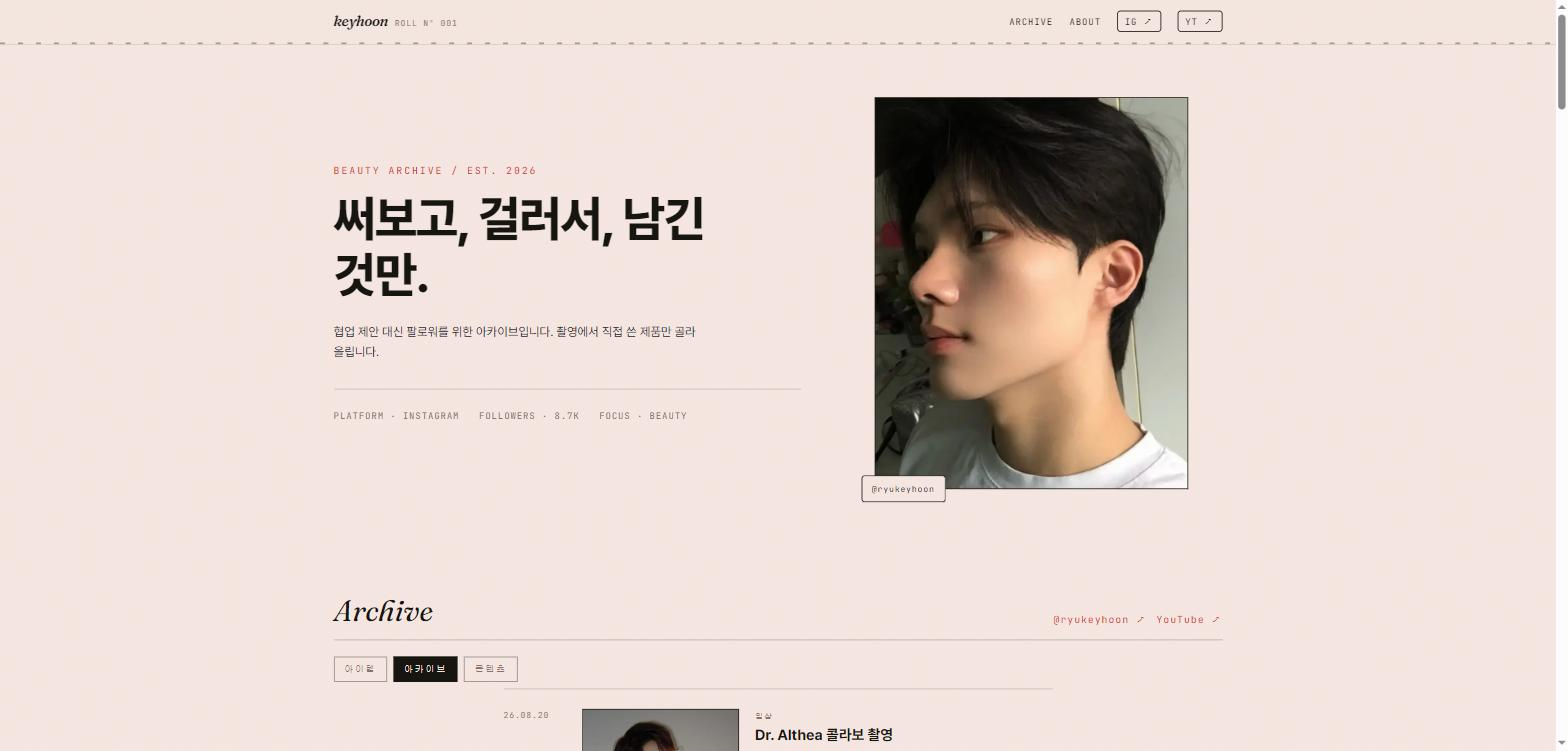
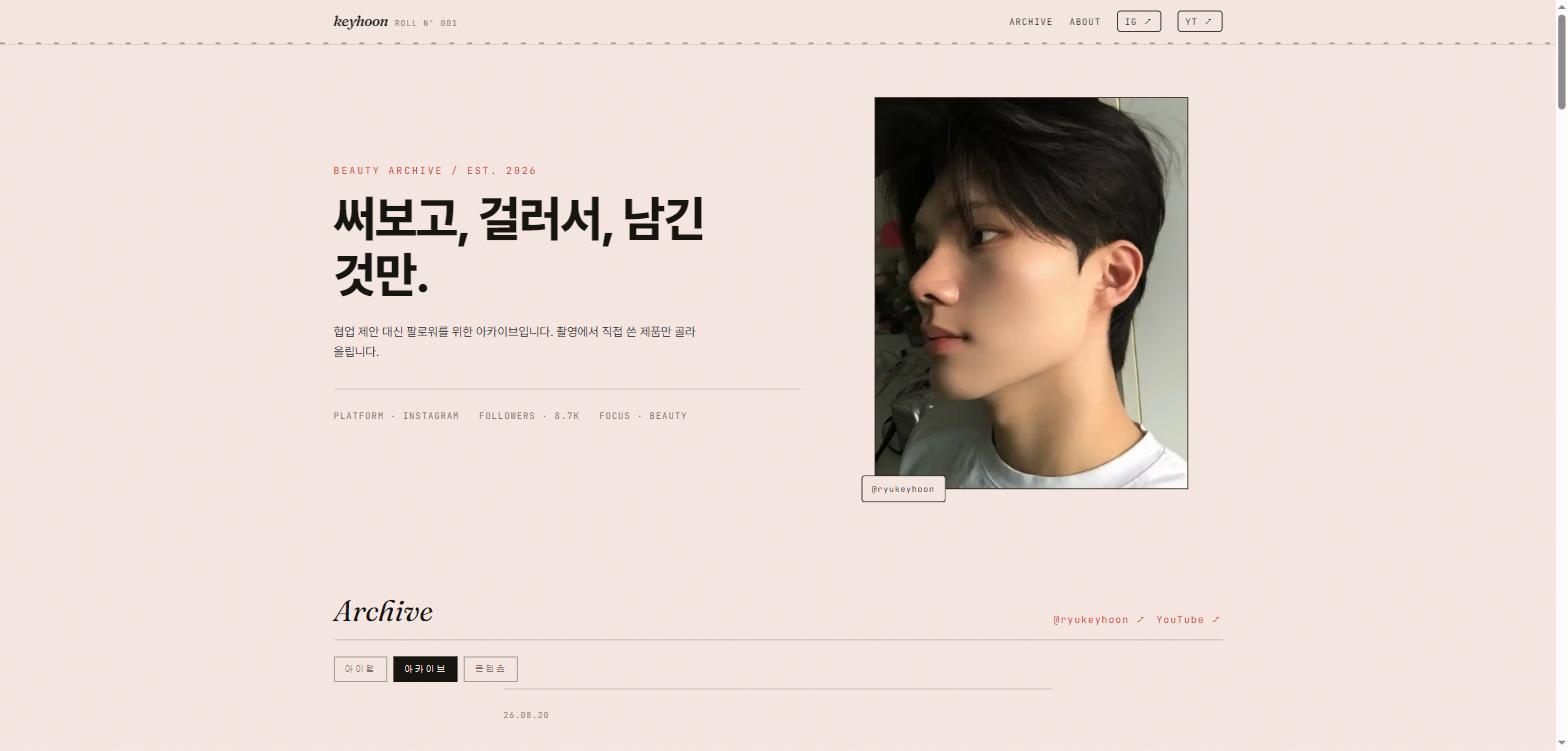
포트폴리오에 디렉토리 카테고리 추가, 키훈 썸네일 최신화
새로 배포된 체대입시 실기 기록판(chedae-ipsi)·장안설비대장
(jangan-equipment)을 정보 허브/디렉토리형 사이트로 분류해 새
카테고리로 추가. 키훈은 배경이 블러쉬 핑크로 바뀌어 썸네일 재캡처.
(온담요양원·다솜교회·빠둠뮤직은 히어로 화면이 그대로라 썸네일 유지)

Claude-Session: https://claude.ai/code/session_01NQ7YvznLNCrRWoBUU5vHbx

Changed region(s): [[0.3438, 0.9188, 0.5625, 1.0]]

diff --git a/portfolio.html b/portfolio.html
@@ -52,7 +52,7 @@
     <div class="wrap">
       <p class="eyebrow">LIVE CASES</p>
       <h1>실제 제작 사례</h1>
-      <p class="section-lead">헬스장, 학원, 인플루언서 아카이브, 요양원, 교회까지 — 실제 운영 중인 사이트와 영업용 데모를 함께 모았습니다. 아래는 라이브 화면 그대로예요.</p>
+      <p class="section-lead">헬스장, 학원, 인플루언서 아카이브, 요양원, 교회, 지역 디렉토리까지 — 실제 운영 중인 사이트와 영업용 데모를 함께 모았습니다. 아래는 라이브 화면 그대로예요.</p>
     </div>
   </section>
 
@@ -66,6 +66,7 @@
         <button type="button" class="filter-tab" data-filter="influencer">인플루언서</button>
         <button type="button" class="filter-tab" data-filter="care">요양원</button>
         <button type="button" class="filter-tab" data-filter="church">교회</button>
+        <button type="button" class="filter-tab" data-filter="directory">디렉토리</button>
         <button type="button" class="filter-tab" data-filter="magazine">매거진</button>
       </div>
 
@@ -128,6 +129,30 @@
             <span class="log-tag log-tag--info">교회</span>
             <h3>다솜교회 (영업용 데모)</h3>
             <p>교회 영업 제안용 데모 사이트 · 예배 시간 안내부터 새가족 안내까지 담아 제작했습니다.</p>
+          </div>
+        </a>
+
+        <a class="portfolio-card" data-category="directory" data-url="https://chedae-ipsi.vercel.app" href="https://chedae-ipsi.vercel.app" target="_blank" rel="noopener">
+          <div class="portfolio-thumb">
+            <img src="assets/portfolio/chedae-ipsi-thumb.jpg" alt="체대입시 실기 기록판 웹사이트 스크린샷" loading="lazy" width="800" height="453">
+            <span class="portfolio-overlay">사이트 방문하기 →</span>
+          </div>
+          <div class="portfolio-meta">
+            <span class="log-tag log-tag--info">디렉토리</span>
+            <h3>체대입시 실기 기록판</h3>
+            <p>체대입시 실기 기준·입시요강·일정 정보를 정리하고 지역별 학원을 연결하는 정보 허브형 사이트입니다.</p>
+          </div>
+        </a>
+
+        <a class="portfolio-card" data-category="directory" data-url="https://jangan-equipment.vercel.app" href="https://jangan-equipment.vercel.app" target="_blank" rel="noopener">
+          <div class="portfolio-thumb">
+            <img src="assets/portfolio/jangan-equipment-thumb.jpg" alt="장안설비대장 웹사이트 스크린샷" loading="lazy" width="800" height="453">
+            <span class="portfolio-overlay">사이트 방문하기 →</span>
+          </div>
+          <div class="portfolio-meta">
+            <span class="log-tag log-tag--info">디렉토리</span>
+            <h3>장안설비대장</h3>
+            <p>수원 장안구 보일러·냉난방·샷시 등 설비·제조 소상공인을 업종별로 모아 연결하는 지역 디렉토리 사이트입니다.</p>
           </div>
         </a>
       </div>
